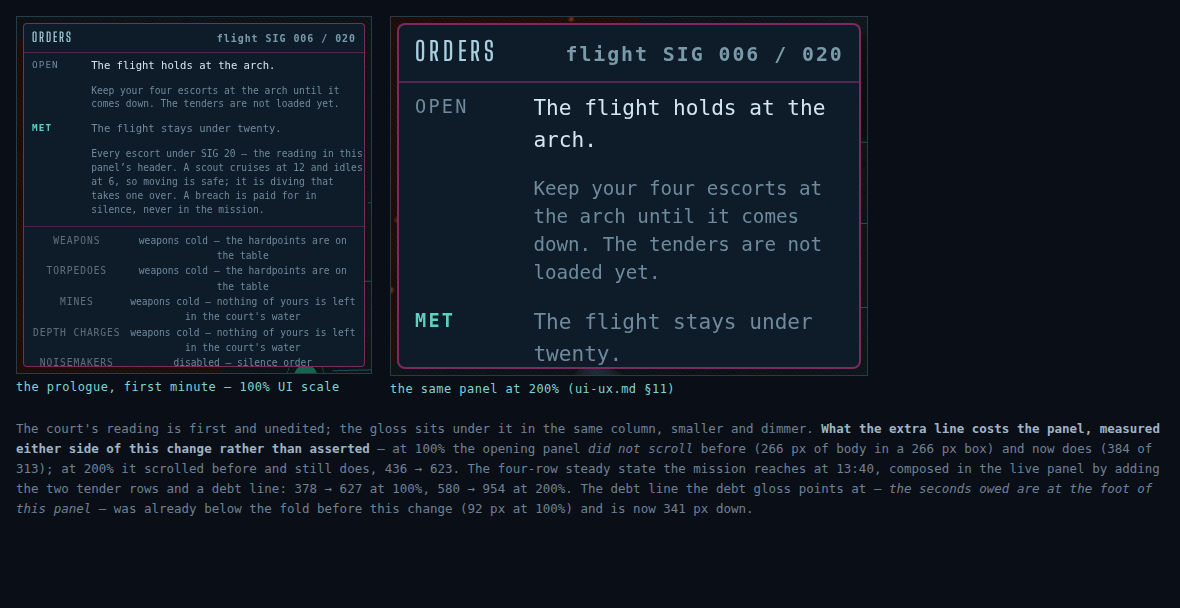
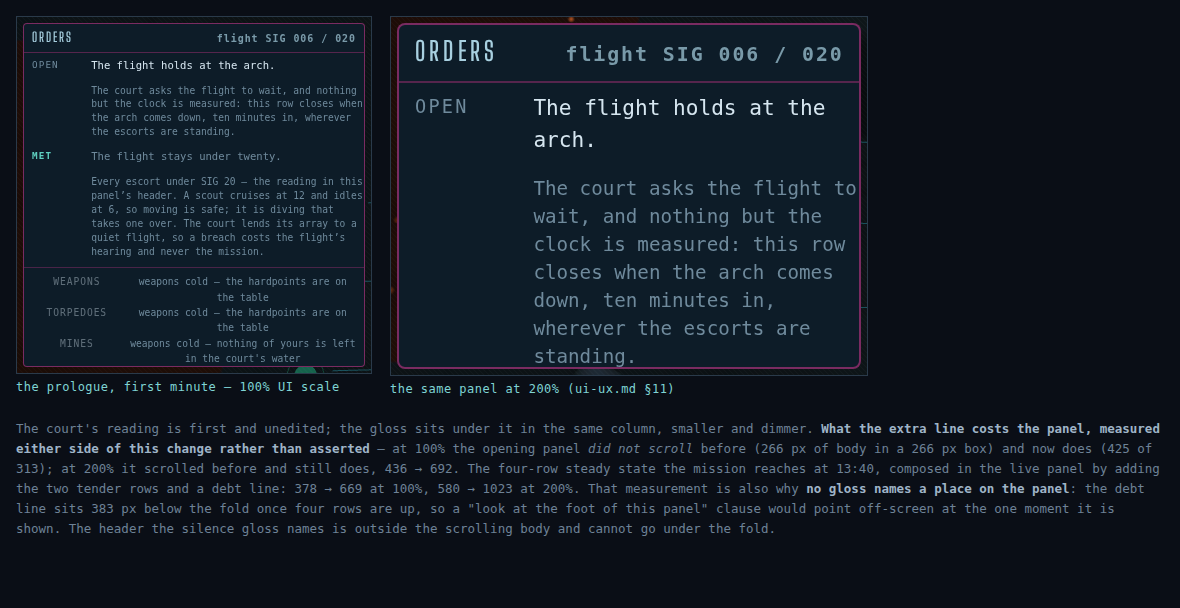
fix(ui): hold the anti-reveal rule against prose, and three false clauses
Round 2's critic broke the anti-reveal guard with one sentence and it
passed every gate in the tree: `Underwriter Sela Drenn is holding the
east with a Cruiser and two Corvettes` appended to a gloss. The sweep
checked authored *tags*, case-sensitively, so the display name missed
the lowercase tag and hull kinds were not in the set at all — and
missionSafety cannot help, because this change put the gloss in its
allow-list by construction. Acceptance criterion 5 was not held.

It is held now against what an author would actually write: every
foreign party's tags, its hulls' and structures' display names, and
every speaker a `say` beat names, whole and word by word, matched
case-insensitively. Both of the critic's reveals fail it, one on `drenn`
and one on `Corvette`.

The docblocks that claimed otherwise are corrected rather than left. The
structural argument — nothing interpolates, so no resolved contact has a
path in — is true of what the *match* can do and says nothing about what
an author wrote. Two claims, two holders, and conflating them is exactly
how the sentence above got through. Invariants row 24 names all three
properties now.

Three glosses were still false:

- "Keep your four escorts at the arch" states a requirement nothing
  checks. `endure` is `own.tick - startedTick` against a tick count —
  a clock over no position and no role, so the flight can be anywhere.
- "The tenders are not loaded yet" is round 1's finding in new wording,
[…]

diff --git a/packages/backend/src/sim/missions/sorrowgate.ts b/packages/backend/src/sim/missions/sorrowgate.ts
@@ -451,9 +451,21 @@ export const PROLOGUE_SORROWGATE: MissionDefinition = {
    * ceiling" implies a speed band the code does not model, so the gloss says
    * what is true in play and §4 is left for a person; a run does not resolve a
    * docs/code disagreement by editing either side to match its own sentence.
-   * *Ears* is `escortRadiusM`. And no gloss promises the array back: §9's 10:40
-   * `lose` beat destroys it and both tenders load after that, so the ledger —
-   * which accrues and repays either way — is what stays true for the whole run.
+   * *Ears* is `escortRadiusM`, and `escorted` is *any* escort inside it — the
+   * two tenders spawn 260 m apart against a 400 m radius, so one hull can
+   * cover both and no gloss says otherwise.
+   *
+   * Three things a gloss on a row may not do, each learned by writing one that
+   * did. It may not **promise the array back**: §9's 10:40 `lose` beat destroys
+   * it and both tenders load after that, so the ledger — which accrues and
+   * repays either way — is what stays true for the whole run. It may not carry
+   * a **"yet"**: a gloss is a fixed string on a row that outlives its moment,
+   * and the station row is still on screen, met, at 15:00 with Tender One
+   * loaded underneath it. And it may not point at **where something is on the
+   * panel**: the body scrolls, and the debt line the debt gloss used to name
+   * sits 341 px below the fold at 100% once four rows are up. The header is the
+   * exception the `silence` gloss uses, because it is outside the scrolling
+   * body and cannot go under the fold.
    *
    * They name no key. The panel is read on a device with no keyboard as well as
    * on one with (#722), so a gloss points at what is on screen — this panel's
@@ -464,7 +476,8 @@ export const PROLOGUE_SORROWGATE: MissionDefinition = {
       id: 'station',
       text: 'The flight holds at the arch.',
       gloss:
-        'Keep your four escorts at the arch until it comes down. The tenders are not loaded yet.',
+        'The court asks the flight to wait, and nothing but the clock is measured: this row ' +
+        'closes when the arch comes down, ten minutes in, wherever the escorts are standing.',
       initial: ObjectiveStatus.Pending,
       // The station ends when the arch does. Nothing else about the first ten
       // minutes is a task, on purpose: §10 gives them to SIG, to the array, and
@@ -476,12 +489,13 @@ export const PROLOGUE_SORROWGATE: MissionDefinition = {
       text: 'The flight stays under twenty.',
       gloss:
         'Every escort under SIG 20 — the reading in this panel’s header. A scout cruises at ' +
-        '12 and idles at 6, so moving is safe; it is diving that takes one over. A breach is ' +
-        'paid for in silence, never in the mission.',
+        '12 and idles at 6, so moving is safe; it is diving that takes one over. The court ' +
+        'lends its array to a quiet flight, so a breach costs the flight’s hearing and never ' +
+        'the mission.',
       debtText: 'The flight owes the court a silence.',
       debtGloss:
-        'An escort went over. The flight owes the court a second of quiet for every loud one ' +
-        'and pays it back by staying under — the seconds owed are at the foot of this panel.',
+        'An escort went over. The flight now owes the court a second of quiet for every loud ' +
+        'one, and pays it back simply by staying under the ceiling again.',
       initial: ObjectiveStatus.Pending,
       // The simulation does not clamp loudness; it notices it. Breaching this
       // costs the flight the array and never the mission, which is §4 stated
@@ -509,8 +523,8 @@ export const PROLOGUE_SORROWGATE: MissionDefinition = {
       id: 'tender-two',
       text: 'Tender Two is loaded. The gate is open, and it will not be open twice.',
       gloss:
-        'Same rule as Tender One — an escort within 400 m or it stays put. Both at the ' +
-        'Concourse is everyone out, and one flight cannot be in two places.',
+        'Same rule as Tender One — an escort within 400 m or it stays put. Both of them at ' +
+        'the Concourse is everyone out.',
       initial: ObjectiveStatus.Pending,
       revealAtTick: T(13, 40),
       markerId: 'concourse',

diff --git a/packages/backend/test/missions.test.ts b/packages/backend/test/missions.test.ts
@@ -618,12 +618,38 @@ describe('the objectives', () => {
     // be refused by a gate whose message quotes a rule about keyboards.
     const KEY_WORDS = /\b(press|presses|pressing|key|keys|keyboard)\b/i;
     for (const mission of MISSIONS) {
+      // What an author would actually write, not what the literal happens to
+      // key on. The first version of this checked authored *tags* and nothing
+      // else, which meant `Underwriter Sela Drenn is holding the east with a
+      // Cruiser and two Corvettes` passed every gate in the tree: the display
+      // name misses the lowercase tag, hull kinds were not in the set at all,
+      // and `missionSafety.test.ts` cannot help because a gloss is in its
+      // allow-list by construction. A prose rule has to be checked against
+      // prose.
       const foreign = new Set<string>();
       for (const party of mission.parties) {
         if (party.slot === mission.playerSlot) continue;
-        for (const unit of party.units) foreign.add(unit.tag);
-        for (const structure of party.structures ?? []) foreign.add(structure.tag);
+        for (const unit of party.units) {
+          foreign.add(unit.tag);
+          foreign.add(statsFor(unit.kind).name);
+        }
+        for (const structure of party.structures ?? []) {
+          foreign.add(structure.tag);
+          foreign.add(structureStatsFor(structure.kind).name);
+        }
         for (const emitter of party.emitters ?? []) foreign.add(emitter.tag);
+      }
+      // Everybody the mission gives a voice to. The four in Sorrowgate's water
+      // are the other three navies and the court, and a gloss is the plain
+      // layer — it describes the player's own force and quotes nobody. Split
+      // into words as well as kept whole, because an author writes "Drenn",
+      // not "Underwriter Sela Drenn".
+      for (const beat of mission.beats) {
+        if (beat.kind !== 'say') continue;
+        foreign.add(beat.speaker);
+        for (const word of beat.speaker.split(/\s+/)) {
+          if (word.length >= 4) foreign.add(word);
+        }
       }
       for (const objective of mission.objectives) {
         const glosses = [objective.gloss, objective.debtGloss].filter(
@@ -644,11 +670,13 @@ describe('the objectives', () => {
             objective.text,
             `${mission.id}: "${objective.id}" glosses itself, so the row says one thing twice`
           );
-          for (const tag of foreign) {
+          const lower = gloss.toLowerCase();
+          for (const name of foreign) {
             assert.equal(
-              gloss.includes(tag),
+              lower.includes(name.toLowerCase()),
               false,
-              `${mission.id}: "${objective.id}" glosses with "${tag}", which is not the player's`
+              `${mission.id}: "${objective.id}" glosses with "${name}", which is not the ` +
+                `player's — §10.5: never a contact the player has not detected`
             );
           }
           const named = KEY_WORDS.exec(gloss);

diff --git a/packages/frontend/test/missionPanel.test.ts b/packages/frontend/test/missionPanel.test.ts
@@ -321,6 +321,47 @@ describe('the objectives panel: whose words these are', () => {
     }
   });
 
+  it('puts the gloss inside the accessible name of a row that is a button', async () => {
+    // §10.5 says the gloss "is part of that row's accessible name rather than
+    // a second unannounced thing on screen", and this is the only form where a
+    // row *has* an accessible name — a `p` has none, and the two rows that
+    // actually carry a gloss and a marker in the shipped prologue are both
+    // buttons. Asserting this on the `p` branch alone, which is what the tests
+    // above do, tests the claim on the one shape it cannot be made about.
+    //
+    // A button's accessible name is its rendered contents, so the assertion is
+    // that the gloss is in them — and that being in them has not cost the row
+    // the gesture, since the gloss's own sentence is a claim about exactly
+    // that affordance.
+    const reading = 'Tender One is loaded. Tender One does not move without ears.';
+    const plain =
+      'Tender One only moves while an escort is within 400 m. This row sends the camera to the Concourse.';
+    const { rendered, calls } = await panel(
+      missionView({
+        objectives: [
+          objective({ id: 'tender-one', text: reading, gloss: plain, markerId: CONCOURSE.id }),
+        ],
+      })
+    );
+    try {
+      const row = rendered.byClass('objectives-row');
+      assert.equal(row.type, 'button', 'a row with somewhere to go is a button');
+      const name = deepText(row);
+      assert.ok(name.includes(reading), 'the reading is in the button’s accessible name');
+      assert.ok(name.includes(plain), 'and so is the gloss, rather than sitting outside it');
+      await rendered.act(() => {
+        (row.props as { onClick?: () => void }).onClick?.();
+      });
+      assert.deepEqual(
+        calls.focused,
+        [[CONCOURSE.x, CONCOURSE.y]],
+        'and the gesture the gloss describes still works'
+      );
+    } finally {
+      await rendered.unmount();
+    }
+  });
+
   it('draws no gloss at all for the twenty-eight missions that author none', async () => {
     // Absent is the ordinary case. A panel that rendered an empty span would
     // put a second grid cell under every reading in the game for nothing, and

diff --git a/packages/shared/src/missions.ts b/packages/shared/src/missions.ts
@@ -1544,10 +1544,17 @@ export interface ObjectiveView {
    *
    * INVARIANT: the same anti-reveal rule that binds `text` and `progress`
    * binds this. It may name the player's own hulls, their own numbers and an
-   * authored place, and never a contact the player has not detected. That
-   * holds structurally as well as by authoring: every gloss that reaches this
-   * field is one of the literal's own strings, chosen and not assembled, so
-   * there is no path by which a resolved contact could reach it.
+   * authored place, and never a contact the player has not detected.
+   *
+   * That is two claims and they are held by different things, which is worth
+   * keeping straight because conflating them hides the weaker one. *Nothing
+   * about the running match can reach this field*: every gloss here is one of
+   * the literal's own strings, chosen and not assembled, so no resolved
+   * contact has a path in — structural, and held by `objectiveGloss.test.ts`.
+   * *Nothing an author wrote may name somebody else's force*: prose, checked
+   * against prose, by the sweep in `missions.test.ts`. A gloss naming a hull
+   * kind or a speaker the player has not detected would satisfy the first and
+   * break the second.
    *
    * Absent is the ordinary case — twenty-eight missions author none, and a
    * mission that authors none shows the reading alone exactly as before.

diff --git a/packages/backend/test/objectiveGloss.test.ts b/packages/backend/test/objectiveGloss.test.ts
@@ -9,12 +9,13 @@
  *
  * - **A gloss that reaches the client is one the mission authored.** Not
  *   assembled, not interpolated, not templated. That is §10.5's verbatim rule
- *   applied to the second half of a row, and it is also what makes the
- *   anti-reveal rule structural rather than a matter of the author's care: the
- *   set of strings this field can hold is fixed before a match exists, so no
- *   resolved contact has a path into it. A gloss carrying a runtime figure
- *   would be a figure about *something*, and the panel is one of the two
- *   surfaces §10.5 spends its last paragraph on.
+ *   applied to the second half of a row, and it closes the half of the
+ *   anti-reveal rule the *running match* could break: the set of strings this
+ *   field can hold is fixed before a match exists, so no resolved contact has
+ *   a path in. It says nothing about what an author put in those strings —
+ *   that half is prose and is checked against prose by the sweep in
+ *   `missions.test.ts`, and a docblock claiming this file holds both is how a
+ *   gloss naming another party's Corvettes passed every gate in the tree.
  * - **The gloss follows the reading it belongs to.** §12 authors two readings
  *   of the silence order and marks the second *while in debt*; a row whose
  *   sentence said one thing and whose gloss explained the other would be worse

diff --git a/packages/backend/src/sim/missions/view.ts b/packages/backend/src/sim/missions/view.ts
@@ -185,11 +185,12 @@ function objectiveView(
   // The plain line beside the reading — docs/ui-ux.md §10.5, #720, #725.
   //
   // Chosen from the literal, never assembled: this is one of the mission's own
-  // authored strings or it is absent, which is what makes the anti-reveal rule
-  // on `ObjectiveView.gloss` a property of the shape rather than of the
-  // author's care. There is no interpolation here on purpose — the moment a
-  // gloss could carry a runtime figure, a figure about somebody else could
-  // reach the player's screen through it.
+  // authored strings or it is absent. There is no interpolation here on
+  // purpose — the moment a gloss could carry a runtime figure, a figure about
+  // somebody else could reach the player's screen through it. That closes the
+  // half of `ObjectiveView.gloss`'s anti-reveal rule the match can break; the
+  // half an *author* can break is prose, and `missions.test.ts` is what holds
+  // it.
   const gloss = glossFor(objective, state);
   if (gloss !== undefined) view.gloss = gloss;
   if (objective.markerId !== undefined) view.markerId = objective.markerId;

diff --git a/docs/invariants.md b/docs/invariants.md
@@ -68,7 +68,7 @@ exactly this reason.
 | 21 | The figure a mission's silence order reads out to the player and the figure `applySilenceLedger` charges against are one number over one id set, and a mission that keeps no ledger reads out nothing at all | [mission-sorrowgate.md](mission-sorrowgate.md) §4 — the order binds one authored role and not the whole force, so the SIG meter beside the panel measures a set the rule does not bind; #623 criterion 8 | `packages/backend/test/silenceReadout.test.ts` — `publishes a reading in every mission that keeps a ledger, and in no other`; `packages/backend/test/silenceReadout.test.ts` — `reads a narrower set than the meter beside it, and never a wider one`; `packages/backend/test/silenceReadout.test.ts` — `crosses at the tick the ledger charges, both ways` |
 | 22 | A navy's nodule bank rises by no more than its depots took in, and by exactly that much wherever nothing is bought — the Order by both of its §6 terms rather than either | [economy.md](economy.md) §6; #706 — only the deposit (`systems/harvest.ts`) and the tithe (`systems/tithe.ts`) credit nodules, so what the holds delivered and what the account rose by are one ledger reached from two ends. The equality is exact only where nothing is spent, because `nodulesEarned` is a per-observation stockpile delta and a purchase landing in the same pass as a deposit nets against it; under a commander what survives is the half spending cannot break, that a bank never outruns its depots | `packages/backend/test/balance.test.ts` — `balances the nodule ledger exactly when nothing is spent (#706)`; `packages/backend/test/balance.test.ts` — `keeps the nodule trip inside its own bounds under a commander (#706)` |
 | 23 | A readout's explanation on the permanent strip covers **its own number and no other**, and says what that number currently says: a control is refused where the strip has laid the readout off the canvas or on top of another, and the surface republishes whenever any figure the line quotes moves, including the ones its own drawn text does not carry | [ui-ux.md](ui-ux.md) §2, §7, §11; #724 — both halves failed silently and neither was reachable by a gate. A collision test over the controls already *accepted* is green while a control sits on a readout the canvas bound had just refused, because a refused readout is still drawn; and the SIG instrument is two lines whose box is named by the first, so `4 units · 2 loud` becoming `5 units · 2 loud` moved nothing the change detector was watching and the line under it went on quoting the old count | `packages/frontend/test/rendererSmoke.test.ts` — `never lays a control over a number that is not its own`; `packages/frontend/test/rendererSmoke.test.ts` — `republishes when §3’s second line moves under a held peak`; `packages/frontend/test/rendererSmoke.test.ts` — `quotes the same loud count as the label the line sits under`; `packages/frontend/test/rendererSmoke.test.ts` — `keeps the permanent element at every scale, and every box on the canvas` |
-| 24 | The plain gloss a mission shows beside an objective's reading is one of that objective's own authored strings — chosen, never assembled — and it describes the reading the row is currently showing | [ui-ux.md](ui-ux.md) §10.5's gloss rule; #720's decision, #725. The rule that binds a reading binds the line explaining it, and interpolation is the only way a resolved contact could reach either: a gloss fixed before the match exists cannot carry a figure about anything, which is what makes the anti-reveal rule here a property of the shape rather than of the author's care. The second half is the pairing — [mission-sorrowgate.md](mission-sorrowgate.md) §12 authors two readings of the silence order, and a row whose sentence said one and whose gloss explained the other would mislead in the half the player reads for the facts | `packages/backend/test/objectiveGloss.test.ts` — `sends only strings the mission authored, chosen and never assembled`; `packages/backend/test/objectiveGloss.test.ts` — `swaps to the debt gloss exactly when the court’s reading swaps, and back`; `packages/backend/test/missions.test.ts` — `glosses a rule in the player’s own terms and names nobody else’s hulls`; `packages/frontend/test/missionPanel.test.ts` — `prints the plain gloss beside the authored line and never instead of it`; `packages/frontend/test/missionPanel.test.ts` — `keeps the authored line first, and the gloss after it and inside the same row` |
+| 24 | The plain gloss a mission shows beside an objective's reading is one of that objective's own authored strings — chosen, never assembled — names no hull, structure or speaker of a party that is not the player's, and describes the reading the row is currently showing | [ui-ux.md](ui-ux.md) §10.5's gloss rule; #720's decision, #725. The rule that binds a reading binds the line explaining it, and interpolation is the only way a resolved contact could reach either: a gloss fixed before the match exists cannot carry a figure about anything, which is what makes the anti-reveal rule here a property of the shape rather than of the author's care. Those are three claims held by three different things, and keeping them apart is the point: the match cannot reach the field because nothing interpolates into it, an author cannot name somebody else's force because the authored strings are swept against every foreign tag, hull kind, structure kind and speaker the mission seats, and the two halves of a row cannot describe different states because — [mission-sorrowgate.md](mission-sorrowgate.md) §12 authors two readings of the silence order, and a row whose sentence said one and whose gloss explained the other would mislead in the half the player reads for the facts | `packages/backend/test/objectiveGloss.test.ts` — `sends only strings the mission authored, chosen and never assembled`; `packages/backend/test/objectiveGloss.test.ts` — `swaps to the debt gloss exactly when the court’s reading swaps, and back`; `packages/backend/test/missions.test.ts` — `glosses a rule in the player’s own terms and names nobody else’s hulls`; `packages/frontend/test/missionPanel.test.ts` — `prints the plain gloss beside the authored line and never instead of it`; `packages/frontend/test/missionPanel.test.ts` — `keeps the authored line first, and the gloss after it and inside the same row` |
 
 ## Why a gate, and what it does not do
 
